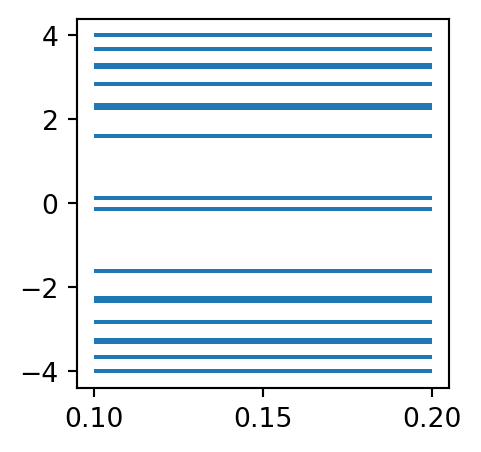
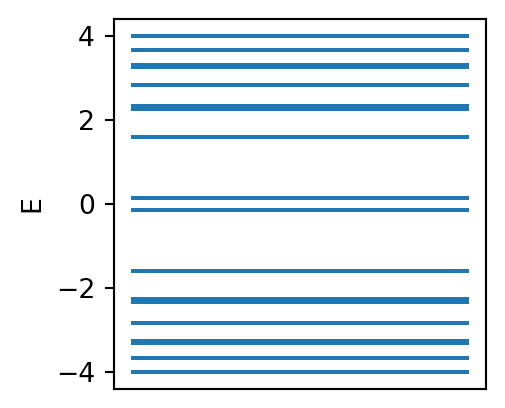
Update ejes

diff --git a/docs/5_HOTI.html b/docs/5_HOTI.html
@@ -366,7 +366,7 @@ pre > code.sourceCode > span > a:first-child::before { text-decoration: underlin
         <li class="sidebar-item">
   <div class="sidebar-item-container"> 
   <a href="./references.html" class="sidebar-item-text sidebar-link">
- <span class="menu-text">References</span></a>
+ <span class="menu-text">Referencias</span></a>
   </div>
 </li>
     </ul>
@@ -417,7 +417,7 @@ pre > code.sourceCode > span > a:first-child::before { text-decoration: underlin
 <figcaption>Modelo HOTI</figcaption>
 </figure>
 </div>
-<div id="80c531b5" class="cell" data-execution_count="1">
+<div id="c96a81fd" class="cell" data-execution_count="1">
 <details class="code-fold">
 <summary>Mostrar código</summary>
 <div class="code-copy-outer-scaffold"><div class="sourceCode cell-code" id="cb1"><pre class="sourceCode numberSource python number-lines code-with-copy"><code class="sourceCode python"><span id="cb1-1"><a href="#cb1-1"></a><span class="im">from</span> pylab <span class="im">import</span> <span class="op">*</span></span>
@@ -447,7 +447,7 @@ pre > code.sourceCode > span > a:first-child::before { text-decoration: underlin
 </div>
 <section id="modelo-finito" class="level2" data-number="6.1">
 <h2 data-number="6.1" class="anchored" data-anchor-id="modelo-finito"><span class="header-section-number">6.1</span> Modelo finito</h2>
-<div id="b9cd6d75" class="cell" data-execution_count="2">
+<div id="8eec1cc2" class="cell" data-execution_count="2">
 <details class="code-fold">
 <summary>Mostrar código</summary>
 <div class="code-copy-outer-scaffold"><div class="sourceCode cell-code" id="cb2"><pre class="sourceCode numberSource python number-lines code-with-copy"><code class="sourceCode python"><span id="cb2-1"><a href="#cb2-1"></a>Nx,Ny <span class="op">=</span> <span class="dv">4</span>,<span class="dv">4</span></span>
@@ -458,15 +458,17 @@ pre > code.sourceCode > span > a:first-child::before { text-decoration: underlin
 </div>
 <section id="espectro" class="level3" data-number="6.1.1">
 <h3 data-number="6.1.1" class="anchored" data-anchor-id="espectro"><span class="header-section-number">6.1.1</span> Espectro</h3>
-<div id="c7c0a0eb" class="cell" data-execution_count="3">
+<div id="ebf5a4c9" class="cell" data-execution_count="3">
 <details class="code-fold">
 <summary>Mostrar código</summary>
-<div class="code-copy-outer-scaffold"><div class="sourceCode cell-code" id="cb3"><pre class="sourceCode numberSource python number-lines code-with-copy"><code class="sourceCode python"><span id="cb3-1"><a href="#cb3-1"></a>hlines(evals,xmin<span class="op">=</span><span class="fl">0.1</span>,xmax<span class="op">=</span><span class="fl">0.2</span>)</span></code></pre></div><button title="Copy to Clipboard" class="code-copy-button"><i class="bi"></i></button></div>
+<div class="code-copy-outer-scaffold"><div class="sourceCode cell-code" id="cb3"><pre class="sourceCode numberSource python number-lines code-with-copy"><code class="sourceCode python"><span id="cb3-1"><a href="#cb3-1"></a>hlines(evals,xmin<span class="op">=</span><span class="fl">0.1</span>,xmax<span class="op">=</span><span class="fl">0.2</span>)</span>
+<span id="cb3-2"><a href="#cb3-2"></a>ylabel(<span class="st">"E"</span>)</span>
+<span id="cb3-3"><a href="#cb3-3"></a>xticks([])</span></code></pre></div><button title="Copy to Clipboard" class="code-copy-button"><i class="bi"></i></button></div>
 </details>
 <div class="cell-output cell-output-display">
 <div>
 <figure class="figure">
-<p><img src="5_HOTI_files/figure-html/cell-4-output-1.png" width="241" height="226" class="figure-img"></p>
+<p><img src="5_HOTI_files/figure-html/cell-4-output-1.png" width="253" height="204" class="figure-img"></p>
 </figure>
 </div>
 </div>
@@ -474,7 +476,7 @@ pre > code.sourceCode > span > a:first-child::before { text-decoration: underlin
 </section>
 <section id="estados-localizados-en-las-esquinas" class="level3" data-number="6.1.2">
 <h3 data-number="6.1.2" class="anchored" data-anchor-id="estados-localizados-en-las-esquinas"><span class="header-section-number">6.1.2</span> Estados localizados en las esquinas</h3>
-<div id="3cf66968" class="cell" data-execution_count="4">
+<div id="d95707af" class="cell" data-execution_count="4">
 <details class="code-fold">
 <summary>Mostrar código</summary>
 <div class="code-copy-outer-scaffold"><div class="sourceCode cell-code" id="cb4"><pre class="sourceCode numberSource python number-lines code-with-copy"><code class="sourceCode python"><span id="cb4-1"><a href="#cb4-1"></a><span class="kw">def</span> local_DOS_one_eigen(Ek,U,n):</span>
@@ -482,7 +484,7 @@ pre > code.sourceCode > span > a:first-child::before { text-decoration: underlin
 <span id="cb4-3"><a href="#cb4-3"></a>    <span class="cf">return</span> real(S)</span></code></pre></div><button title="Copy to Clipboard" class="code-copy-button"><i class="bi"></i></button></div>
 </details>
 </div>
-<div id="5a49e553" class="cell" data-execution_count="5">
+<div id="00f5c5ef" class="cell" data-execution_count="5">
 <details class="code-fold">
 <summary>Mostrar código</summary>
 <div class="code-copy-outer-scaffold"><div class="sourceCode cell-code" id="cb5"><pre class="sourceCode numberSource python number-lines code-with-copy"><code class="sourceCode python"><span id="cb5-1"><a href="#cb5-1"></a>ed<span class="op">=</span>HOTI_square.get_num_orbitals()<span class="op">//</span><span class="dv">2</span><span class="op">-</span><span class="dv">2</span></span>
@@ -500,7 +502,7 @@ pre > code.sourceCode > span > a:first-child::before { text-decoration: underlin
 </div>
 </div>
 </div>
-<div id="c8f65fa9" class="cell" data-execution_count="6">
+<div id="d7496df3" class="cell" data-execution_count="6">
 <details class="code-fold">
 <summary>Mostrar código</summary>
 <div class="code-copy-outer-scaffold"><div class="sourceCode cell-code" id="cb6"><pre class="sourceCode numberSource python number-lines code-with-copy"><code class="sourceCode python"><span id="cb6-1"><a href="#cb6-1"></a>ed<span class="op">=</span>HOTI_square.get_num_orbitals()<span class="op">//</span><span class="dv">2</span><span class="op">-</span><span class="dv">1</span></span>
@@ -518,7 +520,7 @@ pre > code.sourceCode > span > a:first-child::before { text-decoration: underlin
 </div>
 </div>
 </div>
-<div id="793b0268" class="cell" data-execution_count="7">
+<div id="a7ee9c31" class="cell" data-execution_count="7">
 <details class="code-fold">
 <summary>Mostrar código</summary>
 <div class="code-copy-outer-scaffold"><div class="sourceCode cell-code" id="cb7"><pre class="sourceCode numberSource python number-lines code-with-copy"><code class="sourceCode python"><span id="cb7-1"><a href="#cb7-1"></a>ed<span class="op">=</span>HOTI_square.get_num_orbitals()<span class="op">//</span><span class="dv">2</span></span>
@@ -536,7 +538,7 @@ pre > code.sourceCode > span > a:first-child::before { text-decoration: underlin
 </div>
 </div>
 </div>
-<div id="9022ab8c" class="cell" data-execution_count="8">
+<div id="eb3b05c4" class="cell" data-execution_count="8">
 <details class="code-fold">
 <summary>Mostrar código</summary>
 <div class="code-copy-outer-scaffold"><div class="sourceCode cell-code" id="cb8"><pre class="sourceCode numberSource python number-lines code-with-copy"><code class="sourceCode python"><span id="cb8-1"><a href="#cb8-1"></a>ed<span class="op">=</span>HOTI_square.get_num_orbitals()<span class="op">//</span><span class="dv">2</span><span class="op">+</span><span class="dv">1</span></span>

diff --git a/docs/6_Wannier90.html b/docs/6_Wannier90.html
@@ -366,7 +366,7 @@ pre > code.sourceCode > span > a:first-child::before { text-decoration: underlin
         <li class="sidebar-item">
   <div class="sidebar-item-container"> 
   <a href="./references.html" class="sidebar-item-text sidebar-link">
- <span class="menu-text">References</span></a>
+ <span class="menu-text">Referencias</span></a>
   </div>
 </li>
     </ul>
@@ -1201,8 +1201,8 @@ end kpoints</code></pre>
       </a>          
   </div>
   <div class="nav-page nav-page-next">
-      <a href="./references.html" class="pagination-link" aria-label="References">
-        <span class="nav-page-text">References</span> <i class="bi bi-arrow-right-short"></i>
+      <a href="./references.html" class="pagination-link" aria-label="Referencias">
+        <span class="nav-page-text">Referencias</span> <i class="bi bi-arrow-right-short"></i>
       </a>
   </div>
 </nav>
